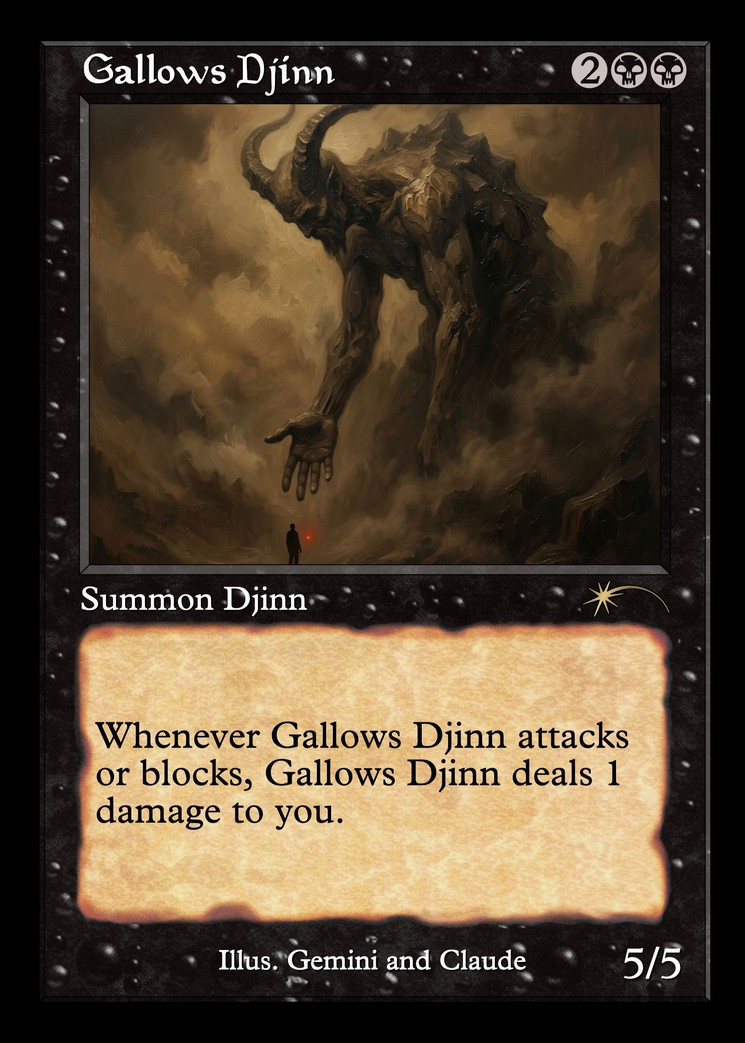
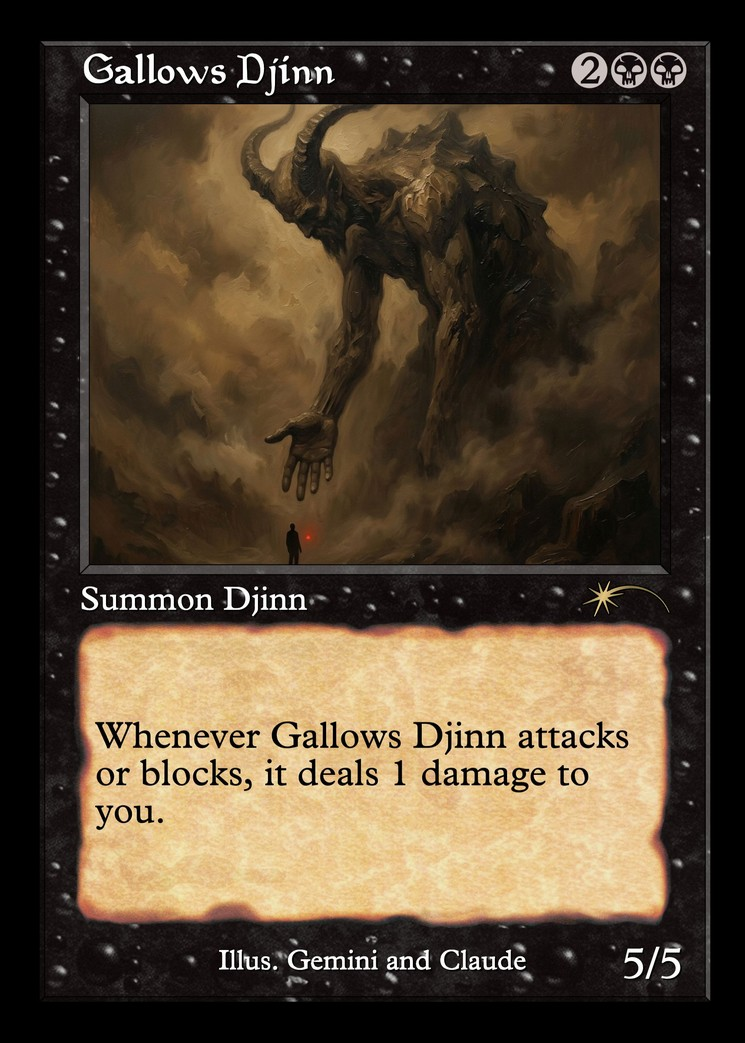
S23 printed faces v2: Chris's corrected re-drops (Traumatizer 'that player mills'; Djinn templating aligned to 'it deals') reprocessed through the pipeline; MANIFEST + handoff updated.

Changed region(s): [[0.1235, 0.7057, 0.8336, 0.7977]]

diff --git a/handoff.md b/handoff.md
@@ -25,7 +25,7 @@
 1. **River sources cluster by seed luck** — seed 42's 2–3 rivers all run in the map's top band (y 0–22); the southern half is dry. If a "every world feels riverine" want emerges, source placement should stratify (one per map third, or spoke-anchored). Arguing baseline shipped as-is.
 2. **The Djinn's tax pricing uses the archetype's ownLife weight flat** (0.1–0.25/point) — at 10-life world starts a 1-point tax is ~10% of a life total and arguably worth more near the floor. The hard never-lethal pins hold the felt-wrong line; a life-scaled tax price is tuning territory (ladder showed zero regression at the flat rate).
 3. **music.stronghold vs music.dungeon inside a STRONGHOLD'S interior duel is not distinguished** — dungeonDuel screens all play music.duel, and the interior walk picks stronghold/dungeon by run kind; but the telegraph→interior handoff briefly passes through overworld on decline paths. Cosmetic at worst; the mapping round will hear it.
-4. ~~RESOLVED same session — the verdict round ran twice~~: Chris rejected round 1 WHOLE ("nothing really speaks to me") and called a fresh roll in four styles NEW to the project — stained glass, illuminated manuscript, art nouveau poster, dark surrealist oil (card-art.md round-2 section locks the language). Round 2's twelve rendered zero-refusal; picks: Thundersnake STAINED GLASS, Gallows Djinn DARK OIL, Traumatizer ART NOUVEAU — cropped 5:4, art.asset wired, gallery-verified; all 24 verdicts in MANIFEST. Printed JPGs arrived same session (assets/temp/Cinquefoil Assets/) and are WIRED: 745px resample, printedAsset on all three defs, MANIFEST provenance rows, printed-toggle gallery-verified. ONE TYPO on the Traumatizer's printed face — "that players mills" — flagged to Chris (a corrected re-drop re-runs the idempotent pipeline). **Planner note:** the round-2 styles are the first non-house-register card art in the pool; if one becomes a recurring register, the ADR-052 style list may want formal expansion.
+4. ~~RESOLVED same session — the verdict round ran twice~~: Chris rejected round 1 WHOLE ("nothing really speaks to me") and called a fresh roll in four styles NEW to the project — stained glass, illuminated manuscript, art nouveau poster, dark surrealist oil (card-art.md round-2 section locks the language). Round 2's twelve rendered zero-refusal; picks: Thundersnake STAINED GLASS, Gallows Djinn DARK OIL, Traumatizer ART NOUVEAU — cropped 5:4, art.asset wired, gallery-verified; all 24 verdicts in MANIFEST. Printed JPGs arrived same session (assets/temp/Cinquefoil Assets/) and are WIRED: 745px resample, printedAsset on all three defs, MANIFEST provenance rows, printed-toggle gallery-verified. The Traumatizer's printed-face typo and the Djinn's templating were both fixed by Chris's v2 re-drop, reprocessed and verified same session — the printed faces now match the defs word-for-word. **Planner note:** the round-2 styles are the first non-house-register card art in the pool; if one becomes a recurring register, the ADR-052 style list may want formal expansion.
 5. **The audio unlock listens for pointerdown/keydown once** — if the first-ever gesture happens while the toggle is OFF, unlock still occurs (correct); but a user whose FIRST gesture is the mute click will hear one crossfade frame race the pause. Unobserved in smoke; noted for the mapping round's ears.
 6. **lord-sim's LIVES table still hand-carries the pace-war sample points** (15/30/50) — the TIERS mirror folded, but the life postures are analysis constants, not knobs. Left deliberately: they're the SIM'S question, not the game's schedule.
 
